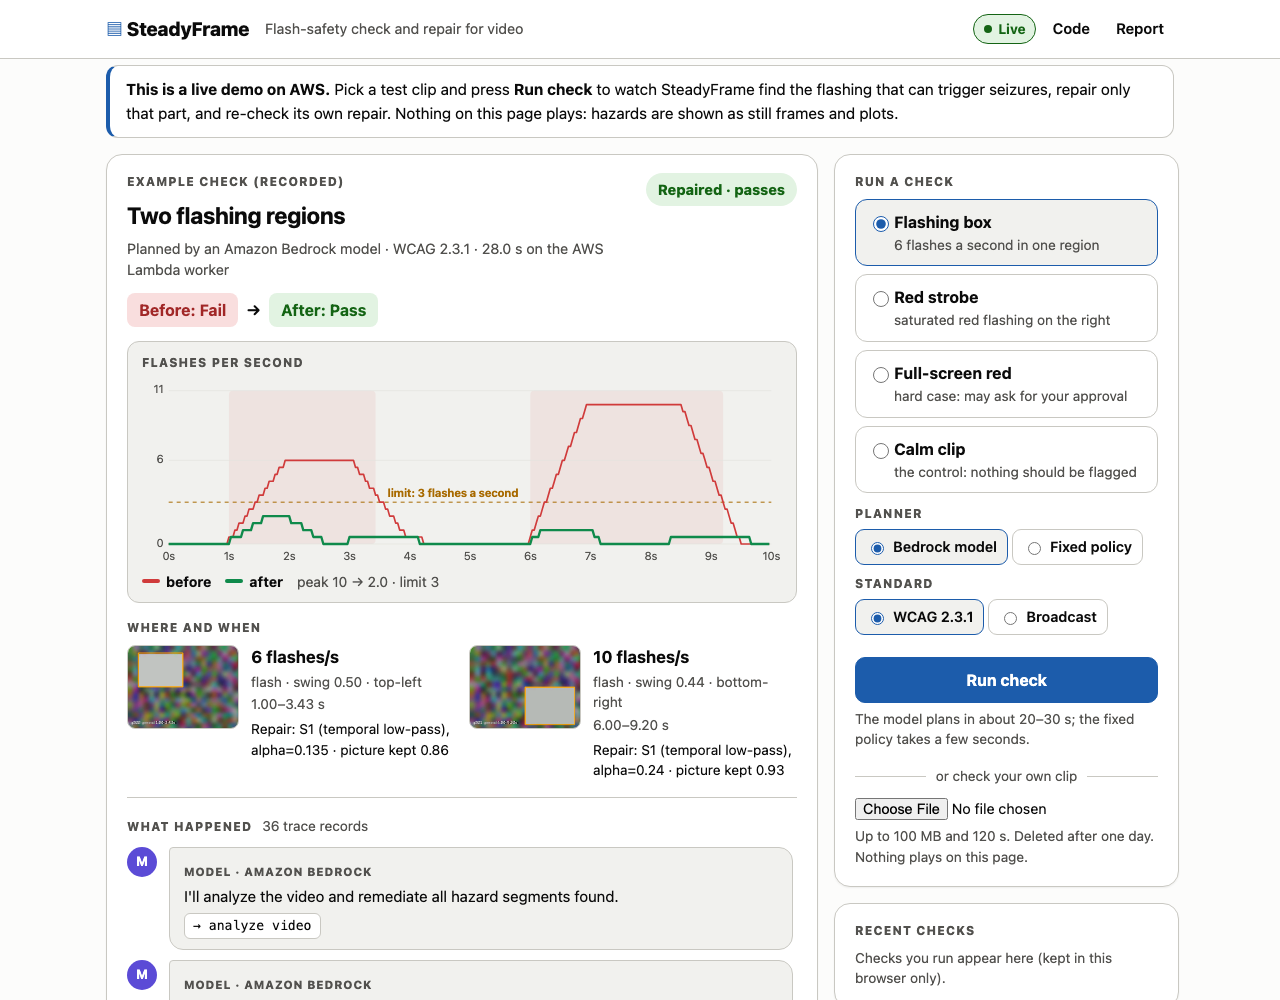
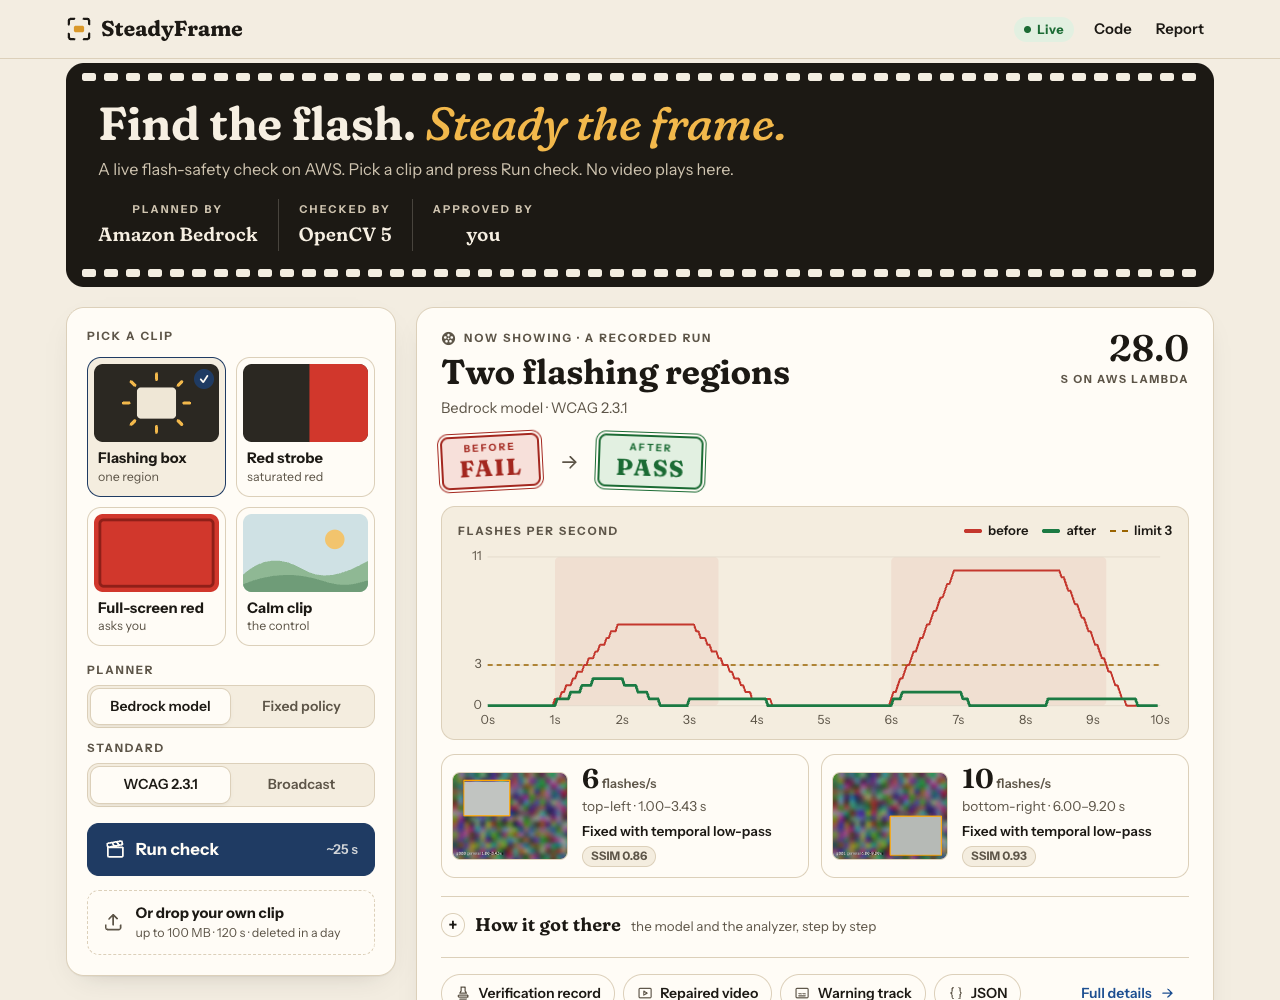
docs: new screenshots of the redesigned demo; captions and notes match the page

diff --git a/README.md b/README.md
@@ -18,7 +18,7 @@ repair. OpenCV 5 and AWS.
 
 Nothing on the page plays: hazards are shown as still frames and plots, never as moving video.
 
-![The SteadyFrame live demo after a check. The main card shows a clip called Flashing box that went from Before: Fail to After: Pass in about 20 seconds on the AWS Lambda worker. A chart of flashes per second shows the red "before" line peaking at 6, well above the dashed limit of 3, and the green "after" line staying under it. Below, a still frame with the flagged region outlined reads "6 flashes/s, swing 0.50, centre, 1.00 to 4.43 s, repair S1 temporal low-pass, alpha 0.13, picture kept 0.87", followed by the model's messages from Amazon Bedrock. The sidebar holds the four test clips, the planner and standard choices, the Run check button, an upload field and the recent checks.](docs/screenshots/live_run.png)
+![The SteadyFrame live demo after a check. A dark film-strip banner reads "Find the flash. Steady the frame." with the credits planned by Amazon Bedrock, checked by OpenCV 5, approved by you. On the left, the clip picker shows four drawn thumbnails (Flashing box selected, Red strobe, Full-screen red, Calm clip), the planner and standard toggles, the Run check button and a drop zone for your own clip. On the right, the check for Flashing box took 4.2 seconds with the fixed policy and carries two rubber stamps, Before: Fail and After: Pass. A chart of flashes per second shows the red before line peaking at 6, above the dashed limit of 3, and the green after line staying under it. Below, a still frame with the flagged region outlined reads 6 flashes/s, centre, 1.00 to 4.43 s, fixed with temporal low-pass, SSIM 0.86, followed by the downloads: verification record, repaired video, warning track and JSON.](docs/screenshots/live_run.png)
 
 ## The problem
 

diff --git a/docs/NOTES.md b/docs/NOTES.md
@@ -317,3 +317,21 @@ Dated log of what I checked, where, and what I decided. Newest at the bottom.
 - The ECS service is kept as the fallback. With the Lambda in front, scaling out on "visible +
   in flight" would start a Fargate task for every job (the message is in flight while Lambda
   works on it), so the scale-out metric is now visible messages only, two minutes running.
+
+## 2026-10-19  Demo page: a classic film look, far less text
+
+- The page kept the same flow (pick a clip, Run check, watch, approve) but most of its prose
+  went: the banner is one line under a film-strip headline, the "who decides what" card became
+  a billing block (planned by Amazon Bedrock, checked by OpenCV 5, approved by you), clips are
+  drawn thumbnails with a two-word tag, progress is a strip of five frames, the verdicts are
+  two rubber stamps, the chart's limit label moved into the legend, the conversation folds
+  away once a check finishes, and the recorded run where the model changes its plan is a
+  footer link.
+- Fonts are self-hosted from npm (Fraunces with its soft axis for headings, Instrument Sans for
+  text; both OFL), so the page still loads nothing from a third-party host.
+- Motion stays transform-only and stops under reduced motion: the reel by "Now showing" turns
+  while a check runs and the stamps settle once. No colour or brightness changes over time.
+- Checked on the deployed stack: Flashing box with the fixed policy 4.2 s warm (19.4 s for Red
+  strobe on a cold worker); Full-screen red paused for approval at 4.0 s and passed after
+  Approve. axe-core finds no violations on the demo (light, dark, phone width) or on the four
+  other pages the CI audit covers.
